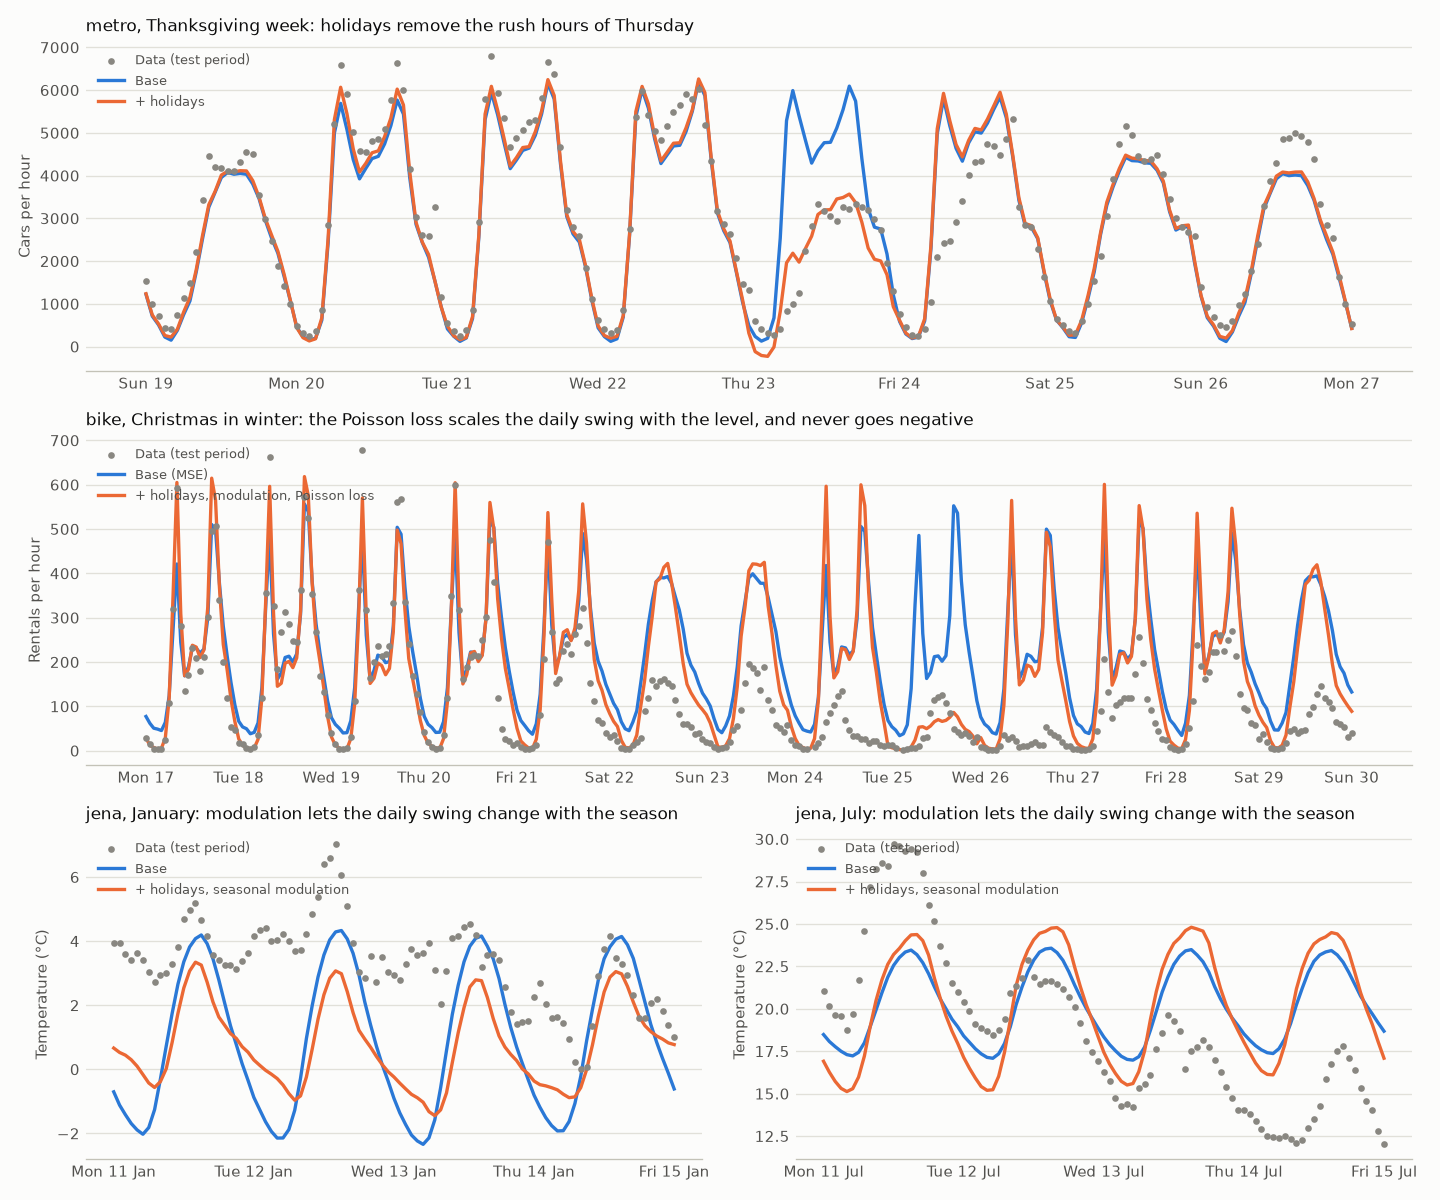
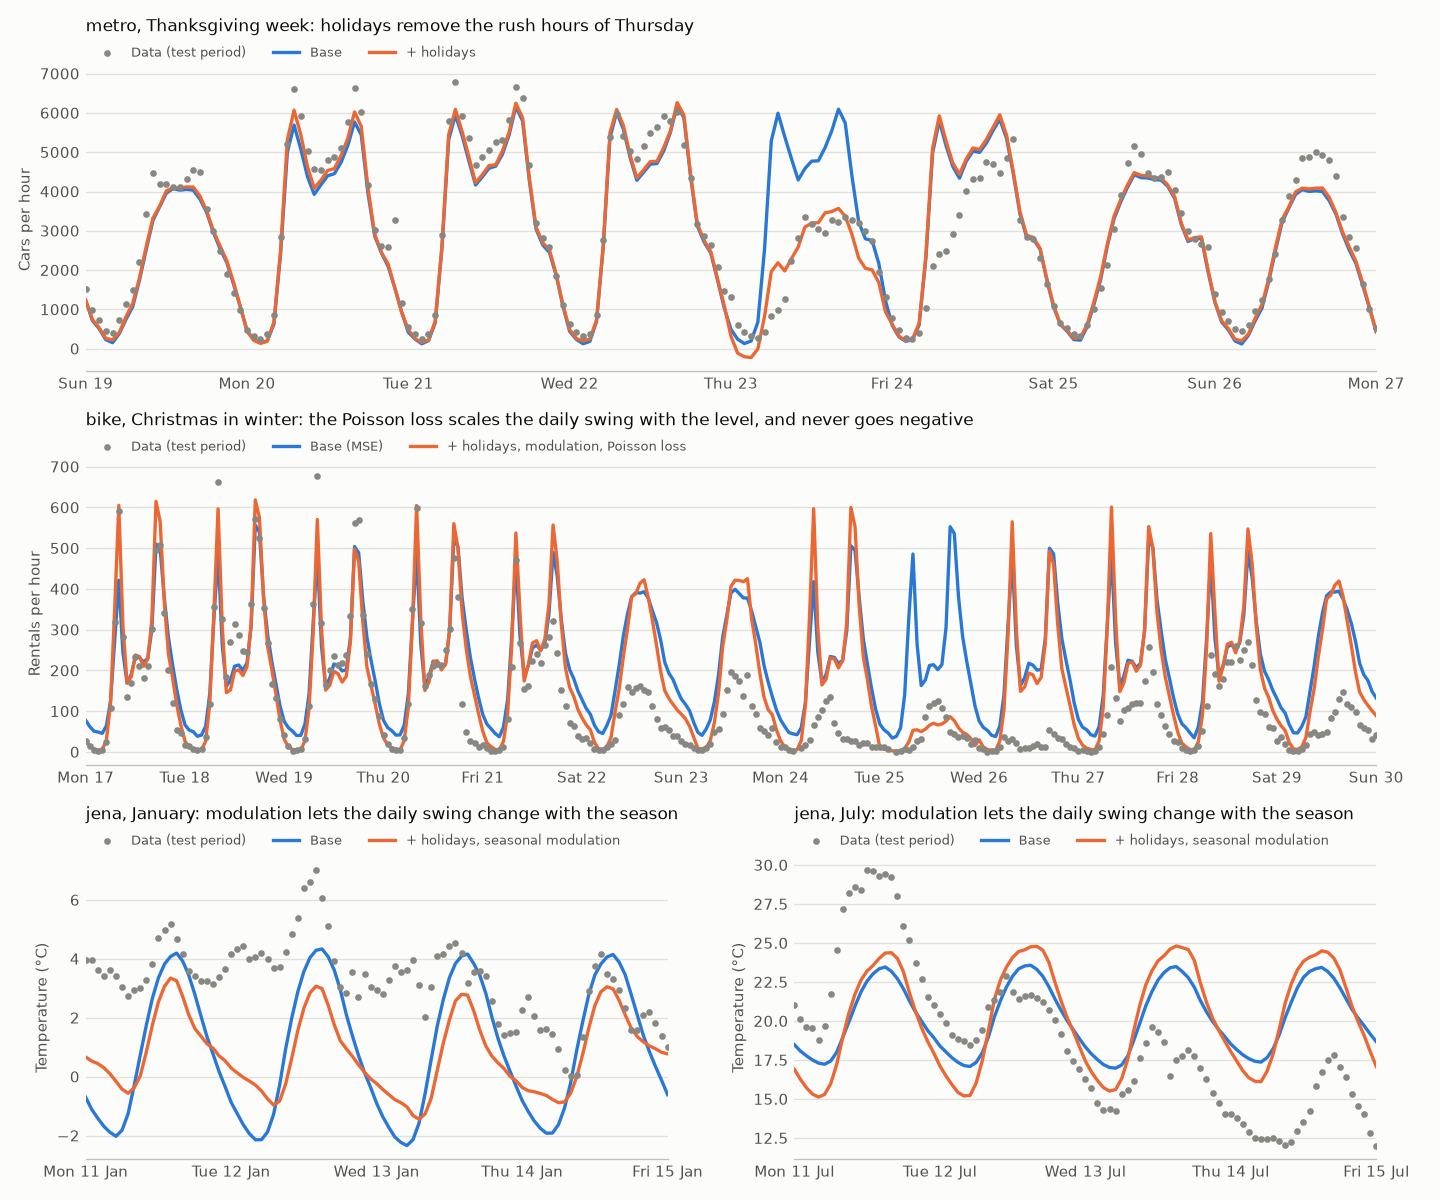
Keep legends off the data, add an example fit to the README
Legends go above the plots; single-series ones are dropped, the title
names the series. docs/fit.png shows metro over its median three-week
test window.

diff --git a/sinetwork/report.py b/sinetwork/report.py
@@ -130,11 +130,29 @@ def plot_window(ax, plot_dir, data, dataset, runs, start, end, title, ylabel):
     ax.scatter(window['datetime'], window['y'], s=9, color=MUTED, label='Data (test period)', zorder=3)
     for color, (label, run) in zip(SERIES, runs):
         ax.plot(hours, predict(plot_dir, dataset, run, hours), color=color, linewidth=2, label=label)
-    ax.set_title(title, color=INK, fontsize=10, loc='left')
+    ax.set_xlim(hours[0], hours[-1])
+    ax.set_title(title, color=INK, fontsize=10, loc='left', pad=22)
     ax.set_ylabel(ylabel, color=INK_2, fontsize=9)
     ax.xaxis.set_major_locator(matplotlib.dates.DayLocator(interval=max(1, (hours[-1] - hours[0]).days // 7)))
     ax.xaxis.set_major_formatter(matplotlib.dates.DateFormatter('%a %d' if len(hours) > 8 * 24 else '%a %d %b'))
-    ax.legend(frameon=False, fontsize=8, labelcolor=INK_2, loc='upper left')
+    ax.legend(frameon=False, fontsize=8, labelcolor=INK_2, loc='lower left', bbox_to_anchor=(0, 1.0), ncols=3,
+              borderaxespad=0.2)  # between the title and the plot, off the data
+    return window
+
+
+def plot_fit_example(plot_dir, data_dir, out_path, start='2017-08-11', end='2017-09-01'):
+    """Three ordinary weeks of metro's test period, chosen as the median three-week window by error."""
+    dataset, run = 'metro', VARIANTS[-1][1]('metro')
+    data = DATASETS[dataset].load(data_dir)
+    fig, ax = plt.subplots(figsize=(12, 4), facecolor=SURFACE)
+    window = plot_window(ax, plot_dir, data, dataset, [('Prediction, all options', run)], start, end, '', 'Cars per hour')
+    error = predict(plot_dir, dataset, run, window['datetime']) - window['y'].to_numpy()
+    test_rmse = json.loads((plot_dir / dataset / run / 'summary.json').read_text())['network']['test']['rmse']
+    ax.set_title(f'metro, three weeks of the test period, never seen in training: RMSE {np.sqrt(np.mean(error ** 2)):.0f} '
+                 f'cars per hour here, {test_rmse:.0f} over the whole test period', color=INK, fontsize=10, loc='left', pad=22)
+    fig.tight_layout()
+    fig.savefig(out_path, dpi=120, facecolor=SURFACE)
+    plt.close(fig)
 
 
 def plot_showcase(plot_dir, data_dir, out_path):
@@ -175,6 +193,7 @@ def main():
     summaries = load_summaries(args.plot_dir)
     print(markdown_table(summaries))
     plot_comparison(summaries, args.out_dir / 'comparison.png')
+    plot_fit_example(args.plot_dir, args.data_dir, args.out_dir / 'fit.png')
     plot_showcase(args.plot_dir, args.data_dir, args.out_dir / 'showcase.png')
     shutil.copy(args.plot_dir / 'metro' / 'week84-year2' / 'components_epoch_0500.png',
                 args.out_dir / 'metro_components.png')

diff --git a/sinetwork/plot.py b/sinetwork/plot.py
@@ -30,8 +30,8 @@ def plot_fit(model, train_df, test_df, scaling, label, out_path):
     ax.plot(all_datetimes, slow, label=f'Trend + {slowest.capitalize()} Sinusoidal Wave', color='red')
     ax.set_xlabel('Datetime')
     ax.set_ylabel(label)
-    ax.set_title(f'{label} and Sinusoidal Waves Over Time')
-    ax.legend()
+    ax.set_title(f'{label} and Sinusoidal Waves Over Time', loc='left')
+    ax.legend(loc='lower right', bbox_to_anchor=(1, 1), ncols=4, frameon=False)  # above the plot, off the data
     ax.grid(True)
 
     fig.tight_layout()
@@ -62,7 +62,6 @@ def plot_components(model, scaling, label, out_path):
         ax.plot(x, np.exp(waves.sum(axis=1)) if model.log_link else waves.sum(axis=1),
                 label=f'Sum of {name} Sinusoidal Waves', color='green')
         ax.set_title(f'Sum of {name} Sinusoidal Waves')
-        ax.legend()
 
         ax2 = fig.add_subplot(grid[row, 1])
         ax2.plot(x, waves, color='blue')
@@ -98,7 +97,6 @@ def plot_series(df, label, out_path):
     plt.xlabel('Time')
     plt.ylabel(label)
     plt.title(f'{label} over Time')
-    plt.legend()
     plt.grid(True)
     fig.savefig(out_path)
     plt.close(fig)

diff --git a/README.md b/README.md
@@ -13,7 +13,11 @@ Each sinusoid has two coefficients (equivalently an amplitude and a phase), so n
 
 ## Results
 
-Test RMSE on the last 20% of each series, in the target's units (lower is better). Each column adds one option to the previous one:
+Every model is trained on the first 80% of each series and tested on the last 20%, which it never sees. Here is `metro` with all options, over three ordinary weeks of its test period (the median three-week window by error):
+
+![Three weeks of metro's test period, data and prediction](docs/fit.png)
+
+Test RMSE, in the target's units (lower is better). Each column adds one option to the previous one:
 
 | Dataset | First version | Least squares (base) | Base | + holidays | + seasonal modulation | + Poisson loss |
 |---|---|---|---|---|---|---|
